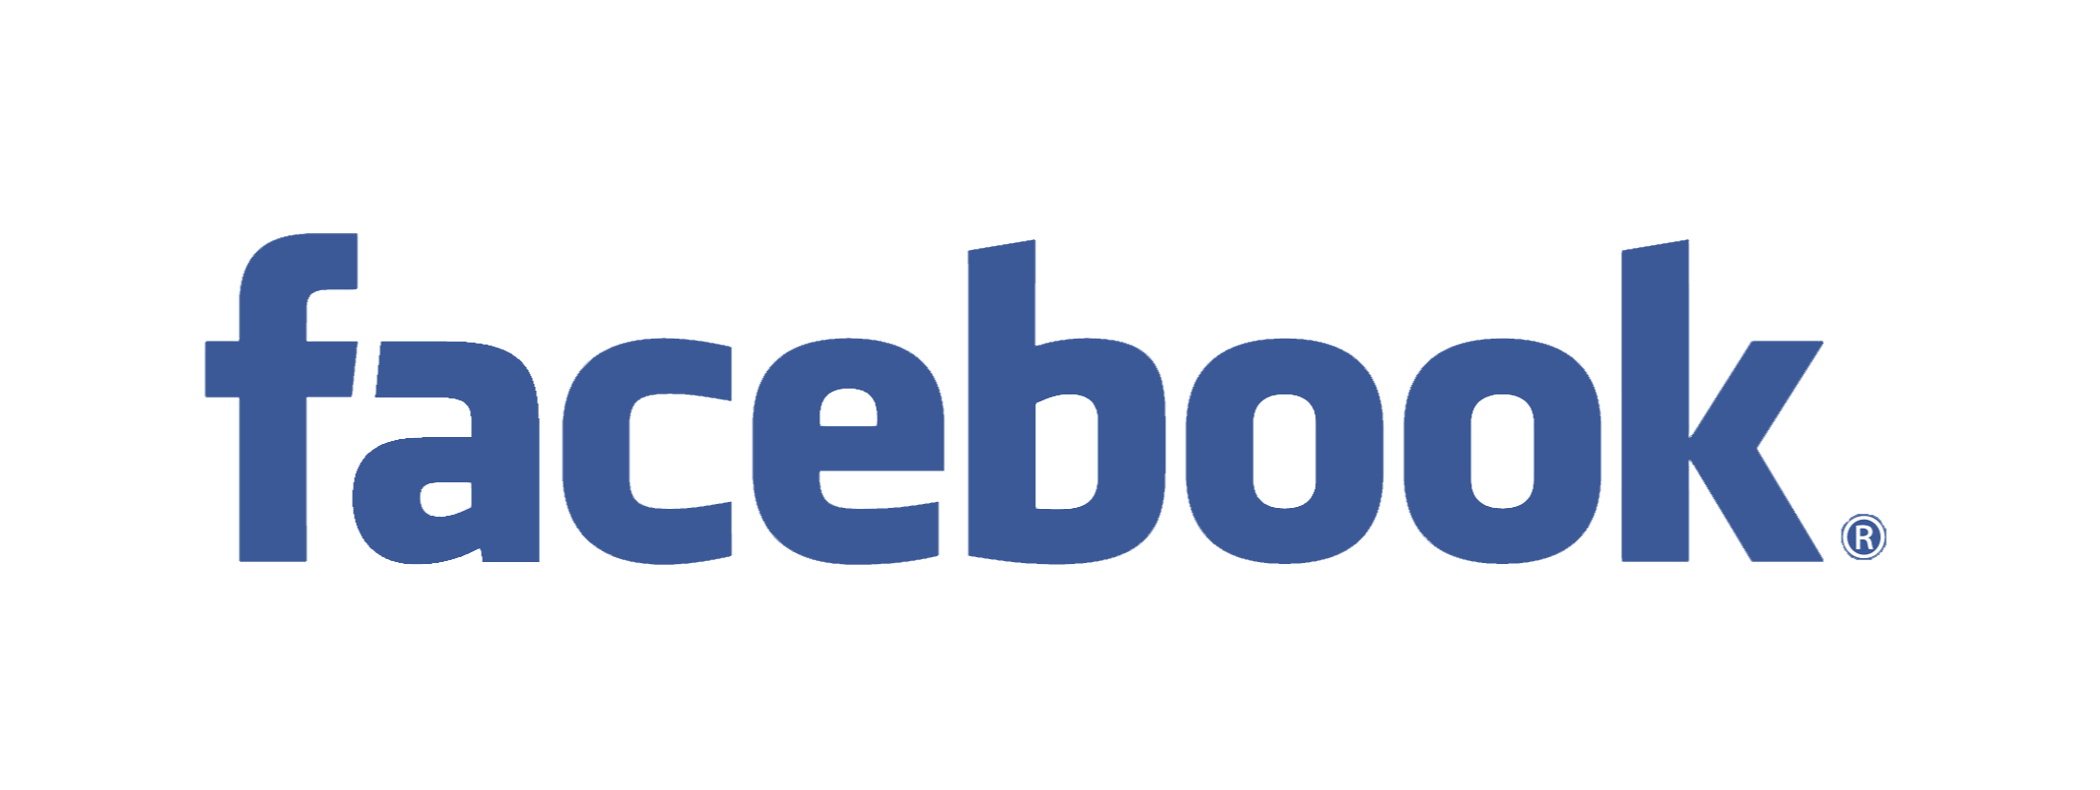
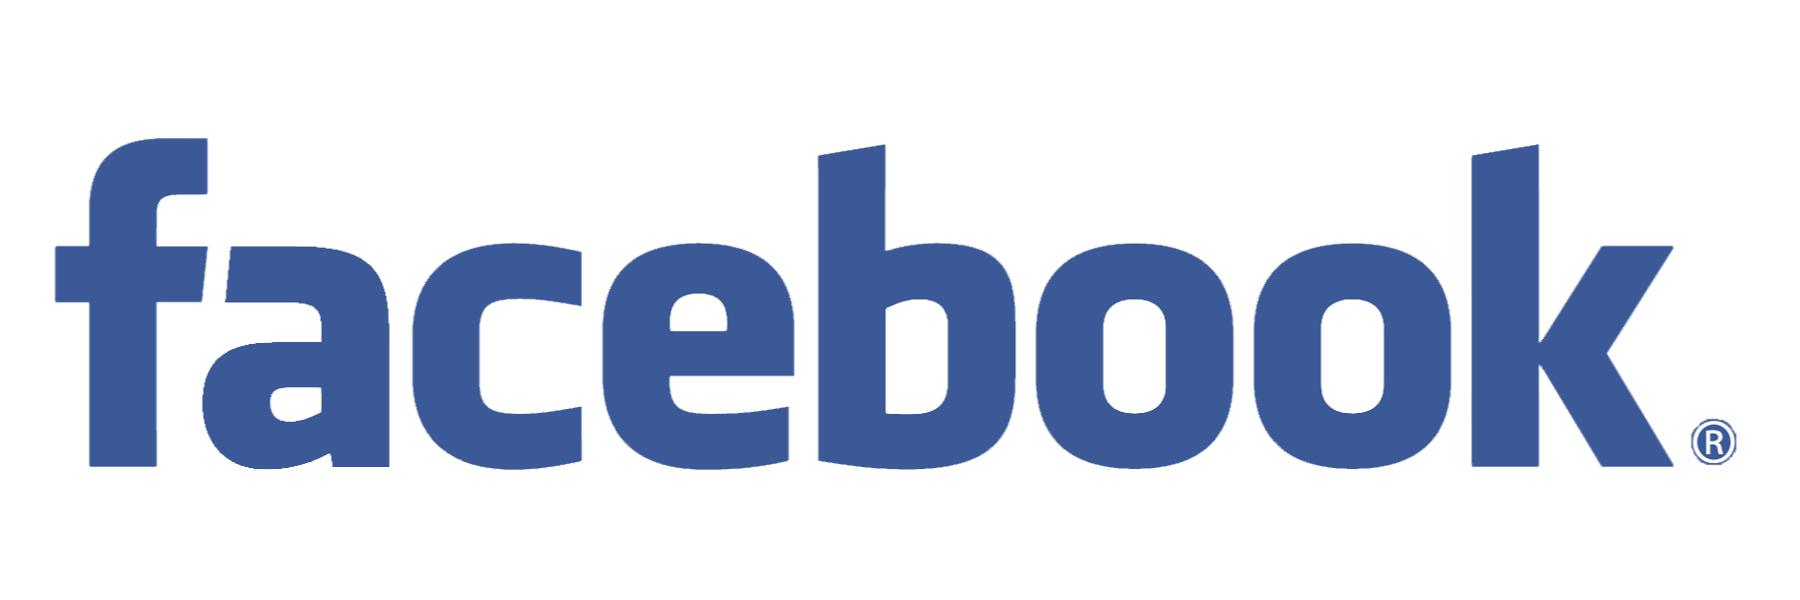
Content update

Changed region(s): [[0.0311, 0.21, 0.9644, 0.78]]

diff --git a/index.html b/index.html
@@ -162,11 +162,11 @@
         <div class="col-lg-4">
           <div class="img-div-4">
             <a href="http://www.facebook.com/" target="_blank">
-              <img alt="Facebook logo" style="width: 260px;" src="img/facebook.png"/>
+              <img alt="Facebook CA logo" style="width: 140px;" src="img/facebook_campus_ambassador.jpg"/>
             </a>
           </div>
-          <h2>Growth Intern</h2>
-          <p>Living the <a href="http://www.forbes.com/sites/jacquelynsmith/2014/02/13/the-best-internships-for-2014/">Forbes best internship for 2014</a> as a Growth hacker in the Facebook Headquarters.</p>
+          <h2>FB Campus Ambassador</h2>
+          <p>Organising events, serving as the contact point for University of Oxford students interested in working for Facebook.</p>
           <p><a class="btn btn-default" href="http://www.facebook.com/" role="button" target="_blank">See more »</a></p>
         </div>
         <div class="col-lg-4">
@@ -181,13 +181,13 @@
         </div>
         <div class="col-lg-4">
           <div class="img-div-4">
-            <a href="http://oefort.com/" target="_blank">
-              <img alt="OE Fort logo" style="width: 200px;" src="img/oe-fort.png"/>
+            <a href="http://oxhack.co.uk/" target="_blank">
+              <img alt="OxHack logo" style="width: 220px;" src="img/oxhack.png"/>
             </a>
           </div>
-          <h2>OE Fort Head Engineer</h2>
-          <p>Head engineer of Oxford Entrepreneurs Fort, a free service that connects starting entrepreneurs and VCs - together with <a href="https://twitter.com/taimurabdaal">Taimur</a>.</p>
-          <p><a class="btn btn-default" href="http://oefort.com/" role="button" target="_blank">See more »</a></p>
+          <h2>OxHack Organiser</h2>
+          <p>Organising Oxford's largest hackathon - together with <a href="https://twitter.com/taimurabdaal" target="_blank">Taimur</a> and the <a href="http://www.oxfordentrepreneurs.co.uk/" target="_blank">Oxford Entrepreneurs</a>.</p>
+          <p><a class="btn btn-default" href="http://oxhack.co.uk/" role="button" target="_blank">See more »</a></p>
         </div>
       </div>
 
@@ -238,6 +238,39 @@
       <div class="row">
         <div class="col-lg-3">
           <div class="img-div-3">
+            <a href="http://www.facebook.com/" target="_blank">
+              <img alt="Facebook logo" style="width: 200px;" src="img/facebook.png"/>
+            </a>
+          </div>
+          <h2>Growth Intern</h2>
+          <p>Completed the <a href="http://www.forbes.com/sites/jacquelynsmith/2014/02/13/the-best-internships-for-2014/">Forbes best internship for 2014</a> as a Growth hacker in the Facebook Headquarters. Researched friending to improve friend recommendations.</p>
+          <p><a class="btn btn-default" href="http://www.facebook.com/" role="button" target="_blank">See more »</a></p>
+        </div>
+
+        <div class="col-lg-3">
+          <div class="img-div-3">
+            <a href="http://www.oxwib.org.uk/" target="_blank">
+              <img alt="OxWIB logo" style="width: 180px;" src="img/oxwib.jpeg"/>
+            </a>
+          </div>
+          <h2>Learn to Code for Women</h2>
+          <p>Prepared and lead a Learn to Code workshop specifically designed for the audience of the Oxford Women in Business society (OxWIB). Twice.</p>
+          <p><a class="btn btn-default" href="http://www.oxwib.org.uk/" role="button" target="_blank">See more »</a></p>
+        </div>
+
+        <div class="col-lg-3">
+          <div class="img-div-3">
+            <a href="http://oefort.com/" target="_blank">
+              <img alt="OE Fort logo" style="width: 160px;" src="img/oe-fort.png"/>
+            </a>
+          </div>
+          <h2>OE Fort Head Engineer</h2>
+          <p>Head engineer of Oxford Entrepreneurs Fort, a free service that connects starting entrepreneurs and VCs - together with <a href="https://twitter.com/taimurabdaal">Taimur</a>.</p>
+          <p><a class="btn btn-default" href="http://oefort.com/" role="button" target="_blank">See more »</a></p>
+        </div>
+
+        <div class="col-lg-3">
+          <div class="img-div-3">
             <a class="btn btn-default" href="univtree/" role="button" target="_blank">
               <img alt="graph visualisation" style="width: 100px" src="img/force-directed_graph.png"/>
             </a>
@@ -246,7 +279,10 @@
           <p>Visualisation of the University College family tree using the beautiful <a href="http://d3js.org/">D3</a> JavaScript library</p>
           <p><a class="btn btn-default" href="univtree/" role="button" target="_blank">See more »</a></p>
         </div>
+      </div>
 
+      <div style="width:100%;height:30px"></div>
+      <div class="row">
         <div class="col-lg-3">
           <div class="img-div-3">
             <a href="http://www.oxfordentrepreneurs.co.uk/learn-to-code-this-term/" target="_blank">
@@ -279,10 +315,7 @@
           <p>Lexity (now Yahoo! Commerce Central) backend-internship project: Developed the base of an API and a Ruby gem to enable 3rd party app development for the awesome Lexity marketing platform</p>
           <p><a class="btn btn-default" href="http://www.lexity.com/" role="button" target="_blank">See more »</a></p>
         </div>
-      </div>
 
-      <div style="width:100%;height:30px"></div>
-      <div class="row">
         <div class="col-lg-3">
           <div class="img-div-3">
             <a href="http://oxtet.co.uk/" target="_blank">
@@ -293,7 +326,10 @@
           <p>Design and marketing for the Oxford Transhumanism & Emerging Technologies society</p>
           <p><a class="btn btn-default" href="http://oxtet.co.uk/" role="button" target="_blank">See more »</a></p>
         </div>
+      </div>
 
+      <div style="width:100%;height:30px"></div>
+      <div class="row">
         <div class="col-lg-3">
           <div class="img-div-3">
             <img alt="FFFF logo" style="width: 100px" src="img/FFFF.png"/>
